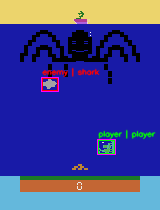
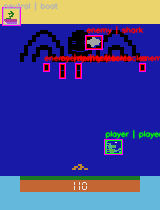
debug: update quirks_debug for namethisgame

diff --git a/praktikum_obj_detection_team/auto_explorer.py b/praktikum_obj_detection_team/auto_explorer.py
@@ -41,18 +41,18 @@ CLASS_KEYWORDS = [
     (1, ["enemy", "enemies", "otto", "bear", "shark", "spider",
          "centipede", "flea", "scorpion", "alien", "kong", "monkeys",
          "mothership", "byte_bat", "rock_muncher", "radar_mortar",
-         "kamikaze", "bouncer", "chasing", "ghost", "monster", "chaser", "asteroids"]),
+         "kamikaze", "bouncer", "chasing", "ghost", "monster", "chaser", "asteroids", "tentacles"]),
 
     # class 2 — projectile
     (2, ["bullet", "missile", "shot", "spell", "plasma",
          "bomb", "laser", "torpedo", "fireball", "projectile",
-         "detonator", "homing", "ball", "player_spell"]),
+         "detonator", "homing", "ball", "player_spell", "spear"]),
 
     # class 3 — collectible
     (3, ["collectible", "fruit", "child", "bell", "princess",
          "item", "coin", "rejuvenator", "energy_pod", "fish",
          "score_item", "kill_item", "prize", "chest", "key",
-         "power", "pellet", "letter", "target_word"]),
+         "power", "pellet", "letter", "target_word", "oxygen_line"]),
 
     # class 4 — structure
     (4, ["block", "platform", "ladder", "wall", "grid", "path",
@@ -64,7 +64,7 @@ CLASS_KEYWORDS = [
 
     # class 5 — neutral
     (5, ["truck", "car", "jet", "chopper", "cloud", "ufo",
-         "falling_rock", "meteoroid", "debris", "disc"]),
+         "falling_rock", "meteoroid", "debris", "disc", "boat"]),
 ]
 
 
@@ -169,7 +169,7 @@ def build_entry(obj_name, detected_type, raw_shape):
 # Games list
 # ---------------------------------------------------------------------------
 RUN_ALL_GAMES      = False
-SINGLE_GAME_TARGET = "asteroids"
+SINGLE_GAME_TARGET = "namethisgame"
 
 ATARI_57 = [
     "alien", "amidar", "asterix", "asteroids", "atlantis",

diff --git a/praktikum_obj_detection_team/data_extractor.py b/praktikum_obj_detection_team/data_extractor.py
@@ -14,7 +14,7 @@ DEBUG_MODE     = True
 DEBUG_LABELS   = True #false = hide text
 
 RUN_ALL_GAMES      = False
-SINGLE_GAME_TARGET = "kingkong"
+SINGLE_GAME_TARGET = "namethisgame"
 
 # Atari screen dimensions
 SCREEN_W = 160.0
